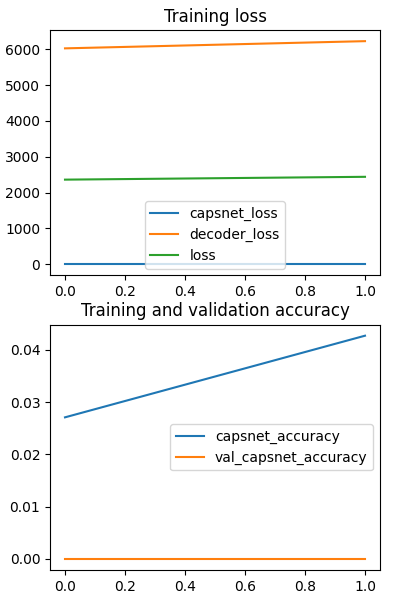
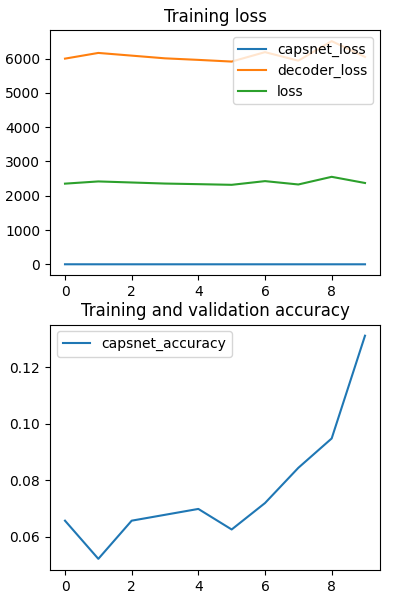
add augumentation

diff --git a/utils.py b/utils.py
@@ -113,11 +113,11 @@ def split_dataset(data, label, ratio):
     return (x_train, y_train), (x_test, y_test)
 
 
-def data_generator(x, y, batch_size, shift_fraction=0.3):
+def data_generator(x, y, batch_size, shift_fraction=0.):
     train_datagen = ImageDataGenerator(width_shift_range=shift_fraction,
                                        height_shift_range=shift_fraction,
-                                       rotation_range=90,
-                                       brightness_range=[0.2,1.0])
+                                       rotation_range=10,
+                                       brightness_range=[0.2,0.3])
     generator = train_datagen.flow(x, y, batch_size=batch_size, shuffle=True)
     x_batch_, y_batch_ = generator.next()
     while 1:

diff --git a/train.py b/train.py
@@ -102,7 +102,7 @@ if __name__ == '__main__':
                         help="The value multiplied by lr at each epoch. Set a larger value for larger epochs")
     parser.add_argument('--lam_recons', default=0.392, type=float,
                         help="The coefficient for the loss of decoder")
-    parser.add_argument('--shift_fraction', default=0.3, type=float,
+    parser.add_argument('--shift_fraction', default=0.15, type=float,
                         help="Fraction of pixels to shift at most in each direction.")
     parser.add_argument('--debug', action='store_true',
                         help="Save weights by TensorBoard")
